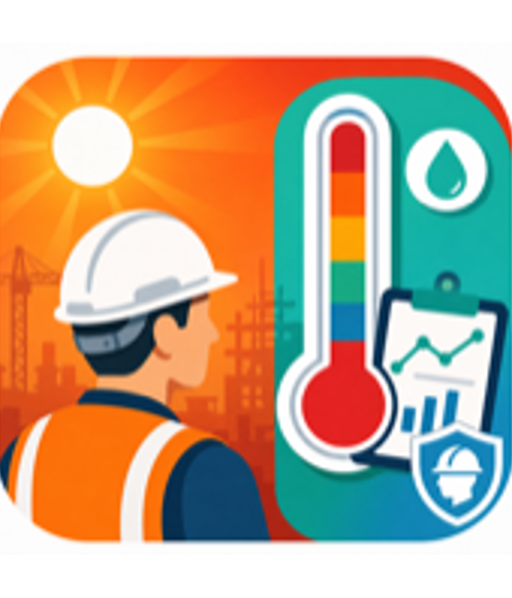
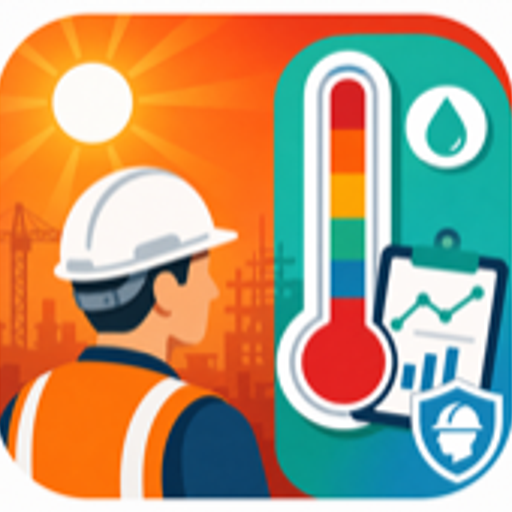
feat: update Fastlane configuration and asset generation for biz flavor
- Add ASC App ID to eas.json for the biz flavor.
- Implement version code resolution in Fastfile for Android deployments.
- Update asset generation script to simplify icon resizing and padding.
- Replace existing biz flavor icons with updated versions in multiple locales.

diff --git a/scripts/generate-assets.ts b/scripts/generate-assets.ts
@@ -210,23 +210,9 @@ async function renderSized(svg: string, outPath: string, width: number, height: 
 
 /** 横長 PNG を白背景で正方形にパディングしてリサイズ */
 async function renderBizIconFromSource(outPath: string, size: number): Promise<void> {
-  const meta = await sharp(BIZ_ICON_SOURCE).metadata();
-  const w = meta.width ?? 0;
-  const h = meta.height ?? 0;
-  const side = Math.max(w, h);
-  const left = Math.floor((side - w) / 2);
-  const top = Math.floor((side - h) / 2);
-
   await mkdir(path.dirname(outPath), { recursive: true });
   await sharp(BIZ_ICON_SOURCE)
-    .extend({
-      top,
-      bottom: side - h - top,
-      left,
-      right: side - w - left,
-      background: ICON_BG,
-    })
-    .resize(size, size)
+    .resize(size, size, { fit: 'cover', position: 'center', background: ICON_BG })
     .png()
     .toFile(outPath);
   console.log(`✓ ${path.relative(ROOT, outPath)} (${size}x${size})`);
